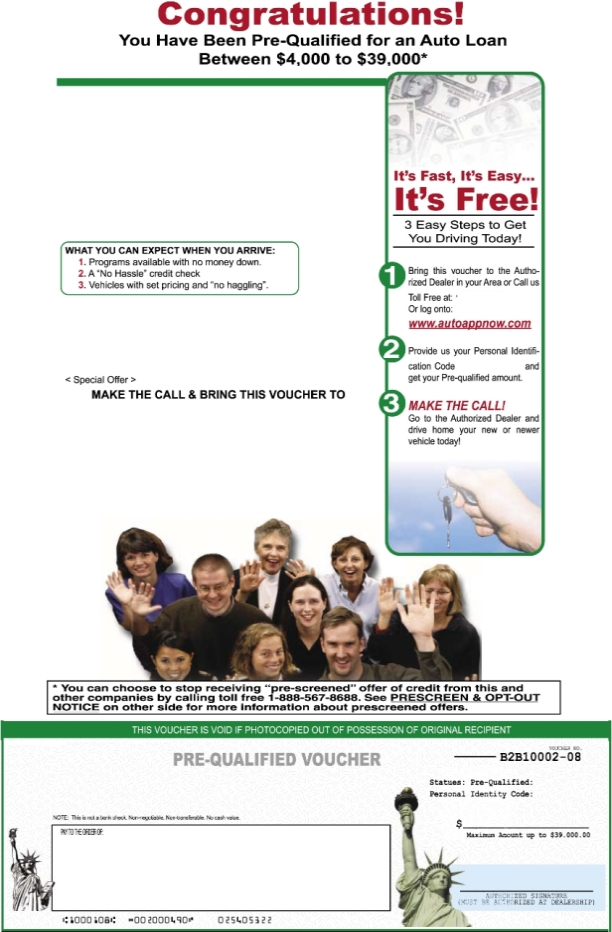
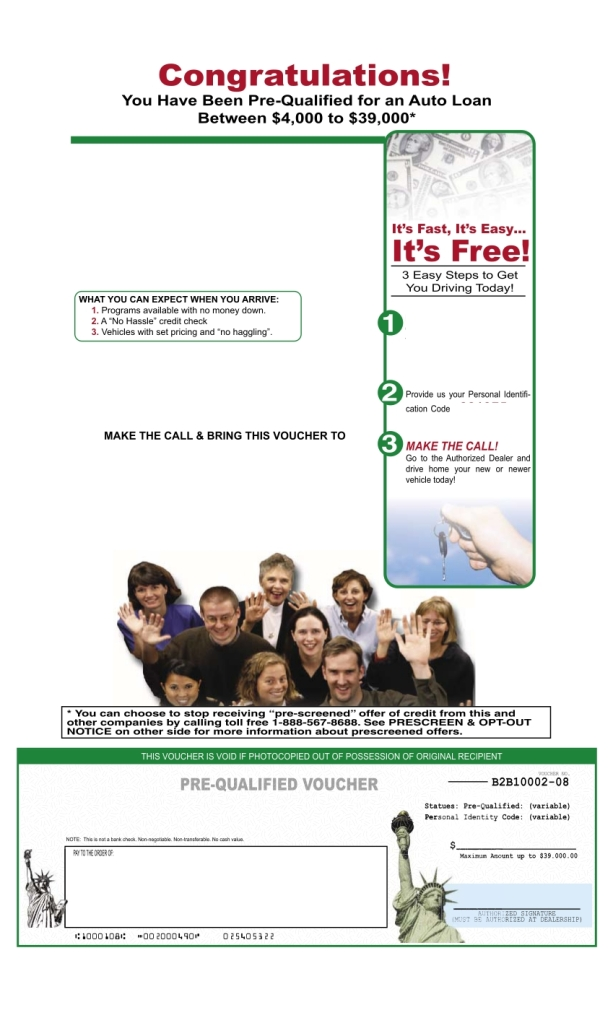
template3

diff --git a/public/stylesheets/default.css b/public/stylesheets/default.css
@@ -49,7 +49,7 @@ body {
 	font-size: 12px;  
 	font-family: Verdana, Arial, "Helvetica Neue", Geneva, sans-serif;
 	color: #000;
-	background-color: #F5F5F5; /* #FCF3DF; #FFF9E5;*/
+	background-color: #D8D8D8; /* #FCF3DF; #FFF9E5;*/
 	margin: 0;
 	padding: 0;
 	height:100%;
@@ -57,7 +57,7 @@ body {
 
 
 a:link, a:visited {
-	color: #005DB8;
+	color: #C88900;
          letter-spacing: 0.04em
 }
 a:hover {
@@ -124,9 +124,9 @@ ul {
 /** Header */
 #header {
 	background: url(/images/top_bar.png) repeat-x;
-	margin: 2px 0px 0px 0px;
+	margin: 0px 0px 0px 0px;
 	padding: 0.1em 0em 0em;
-        height: 68px;
+        height: 67px;
 }
 
 #header h1 {
@@ -149,7 +149,7 @@ ul {
 	width: 480px;
 	margin: 0 auto;
         font-weight: bold;
-	margin-top: 2.7em;
+	margin-top: 2.9em;
         
         
 }
@@ -171,7 +171,7 @@ ul {
 	margin: 5px 5px 0px 0px;
 	padding: 3px 10px 3px;
 	text-decoration: none;
-	color: #003467;
+	color: #fff;
         background: url(/images/menu-sep.jpg) no-repeat right;
 }
 
@@ -183,7 +183,7 @@ ul {
 #menu .current {
 
        /*background: #FFD167 url(/images/img03.gif) no-repeat right top;*/
-       color: #5A9500;
+       color: #8DD0FF;
 }
 
 #menu .current_page_item a {
@@ -215,7 +215,7 @@ ul {
 #main {
         height: 100%;
         margin: 0 auto;
-        background: #FcFcFd;
+        background: #fff;
         width: 100%;
         
         padding-top: 15px;
@@ -229,19 +229,20 @@ ul {
 	width: 81%;
 }
 .head {
-	color: #00446B;
-	font-weight: normal;
-	/*background: #fff url(/images/head.jpg) repeat-x top;*/
+	color: #003366;
+	font-weight: bold;
+	background: #fff /*url(/images/head.jpg) repeat-x top*/;
 	margin: 0 10px 0 10px;
-	font-size: 18px;
+	font-size: 17px;
         padding: 3px 3px 3px 5px;
         /*border: #F1F1DD 1px solid; */
         
 }
 
 .head a{
-	 font-size: 14px;
-}
+	 font-size: 13px;
+         color: #0064AC;
+}   
 
 .head span {
 	font-size: 1em;       
@@ -251,7 +252,7 @@ ul {
 #screen {
  	margin 0;
 	padding: 15px;
-        background: #FcFcFd;
+        background: #fff;
         min-height: 400px; 
 	height: expression( this.scrollHeight < 400 ? "400px" : "auto" ); /* sets min-height for IE */
 	}
@@ -367,8 +368,9 @@ ul {
         padding: 6px 0 6px 0;
 	color: #fff;
 	font-size: 0.9em;
-        background: #0373B3;
+        background: #013F6E;
         text-align: center;
+        border: #B3B3B3 1px solid;
 }
 #footer a  {
 	color: #EBFF00;
@@ -421,19 +423,19 @@ ul {
 table.listing    { border-collapse: collapse;
             width: 100%;
             color: #000;
-            border:1px solid #95A5B5;
+            border:1px solid #6D8297;
 }
 
 table.listing th {background: #DCDFE6 url(/images/table-header.jpg) repeat-x top;
              color: #003971;
              text-align: left;
              padding: 0.3em .5em 0.3em;
-             border: #95A5B5 1px solid ;
+             border: #6D8297 1px solid ;
 	     font-weight: bold;
 			  
 }
 
-table.listing td { padding: 1.1em .5em .5em .5em; color: #000000; border-bottom:1px solid #95A5B5; background: #FFF;}
+table.listing td { padding: 1.1em .5em .5em .5em; color: #000000; border-bottom:1px solid #6D8297; background: #FFF;}
 
 
 table.listing tr.processed td { 
@@ -465,9 +467,9 @@ table.listing a {
 .table-bottom{ width: 100%; border-collapse: collapse; border:1px solid #A5BDD5; }
 
 
-.form-table th {background-color: #FCFDFE; color: #004177; padding: 0.1em .8em; border:1px solid #A5BDD5; text-align: left; font-weight: bold; text-align: right; vertical-align: middle;}
+.form-table th {background-color: #F6F7F8; color: #004177; padding: 0.1em .8em; border:1px solid #A5BDD5; text-align: left; font-weight: bold; text-align: right; vertical-align: middle;}
 
-.form-table td {background-color: #FCFDFE; padding: .8em; border:1px solid #A5BDD5; vertical-align: middle;}
+.form-table td {background-color: #F6F7F8; padding: .8em; border:1px solid #A5BDD5; vertical-align: middle;}
 
 .form-table {border-collapse: collapse; width: auto; border: 1px solid #A5BDD5; margin-left: 5px; width: auto;}
 
@@ -494,7 +496,7 @@ table.search-table a {
            }
 table.search-table {border-collapse: collapse; width: 100%; margin-top: 1em; padding 0; border: #B8C9DA 1px solid ;}
 
-.table-top td {background: #D5E8F2;  padding: .3em .5em 0.3em 0.5em; color: #002E4F; font-size: 13px; font-weight: bold;  border: #A5BDD5 1px solid;}
+.table-top td {background: #CBD9E8;  padding: .3em .5em 0.3em 0.5em; color: #002E4F; font-size: 13px; font-weight: bold;  border: #A5BDD5 1px solid;}
 
 
 

diff --git a/app/controllers/admin/dealers_controller.rb b/app/controllers/admin/dealers_controller.rb
@@ -271,15 +271,19 @@ class Admin::DealersController < ApplicationController
 
    @phone = "#{@dealer_profile.phone_1}-#{@dealer_profile.phone_2}-#{@dealer_profile.phone_3}"
    @auth_code = @dealer_profile.auth_code
-   @first_para = @dealer.print_file_fields.find_by_identifier('text_body_1').value rescue ' '
-   @sec_para = @dealer.print_file_fields.find_by_identifier('text_body_2').value rescue ' '
+   @first_para = @dealer.print_file_fields.find_by_identifier('text_body_1').value rescue 'Data Not entered. Conatcat your administrator'
+   @sec_para = @dealer.print_file_fields.find_by_identifier('text_body_2').value rescue 'Data Not entered. Conatcat your administrator'
+   @third_para = @dealer.print_file_fields.find_by_identifier('text_body_3').value rescue 'Data Not entered. Conatcat your administrator'
+
    @print_template = "qd_profiles/#{params[:t]}"
+   @w_site = current_user.print_file_fields.find_by_identifier('variable_data_1').value rescue 'www.autoappnow.com'
+   @ask_for = current_user.print_file_fields.find_by_label('Ask for').value rescue 'Contact Admin'
    case @print_template
-                   when 'qd_profiles/template1' then (file_name, size = 'Crediplex_Parchment.pdf', [610, 1009])
-                   when 'qd_profiles/template2' then (file_name, size = 'Crediplex_Brochure.pdf',[610, 1009])
-                   when 'qd_profiles/template3' then (file_name, size = 'Letter_Master.pdf', [612, 930])
-                   else (file_name, size = 'print_file.pdf', [610, 1009])
-                   end
+        when 'qd_profiles/template1' then (file_name, size = 'Crediplex_Parchment.pdf', [610, 1009])
+        when 'qd_profiles/template2' then (file_name, size = 'Crediplex_Brochure.pdf',[610, 1009])
+        when 'qd_profiles/template3' then (file_name, size = 'Letter_Master.pdf', [612, 1008])
+        else (file_name, size = 'print_file.pdf', [610, 1009])
+   end
    options = { :left_margin => 0, :right_margin => 0, :top_margin => 0, :bottom_margin => 0, :page_size => size }
    prawnto :inline => true, :prawn => options, :page_orientation => :portrait, :filename => file_name
    render :layout => false

diff --git a/app/controllers/qd_profiles_controller.rb b/app/controllers/qd_profiles_controller.rb
@@ -176,6 +176,7 @@ class QdProfilesController < ApplicationController
      @auth_code =  @dealer_profile.auth_code rescue ' '
      @first_para = current_user.print_file_fields.find_by_identifier('text_body_1').value rescue 'Data Not entered. Conatcat your administrator'
      @sec_para = current_user.print_file_fields.find_by_identifier('text_body_2').value rescue 'Data Not entered. Conatcat your administrator'
+     @third_para = @dealer.print_file_fields.find_by_identifier('text_body_3').value rescue 'Data Not entered. Conatcat your administrator '
      template = current_user.print_file_fields.find_by_identifier('template')
      @w_site = current_user.print_file_fields.find_by_identifier('variable_data_1').value rescue 'www.autoappnow.com'
 
@@ -184,7 +185,7 @@ class QdProfilesController < ApplicationController
        case @print_template
                    when 'template1' then (file_name, size = 'Crediplex_Parchment.pdf', [610, 1009])
                    when 'template2' then (file_name, size = 'Crediplex_Brochure.pdf',[610, 1009])
-                   when 'template3' then (file_name, size = 'Letter_Master.pdf', [612, 930])
+                   when 'template3' then (file_name, size = 'Letter_Master.pdf', [612, 1008])
                    else (file_name, size = 'print_file.pdf', [610, 1009])
                    end
        options = { :left_margin => 0, :right_margin => 0, :top_margin => 0, :bottom_margin => 0, :page_size => size }

diff --git a/app/models/dealer_mailer.rb b/app/models/dealer_mailer.rb
@@ -30,7 +30,7 @@ class DealerMailer < ActionMailer::Base
 
    def dealer_accounts_notification(dealer_profile, total, balance, order, attachment)
     subject    "[#{configatron.site_name}] " + 'Accounts information'
-    recipients dealer_profile.user.email
+    recipients [dealer_profile.user.email] + dealer_profile.emails_extra.split(';')
     from       "#{configatron.support_name} <#{configatron.support_email}>"
     sent_on    Time.now
    
